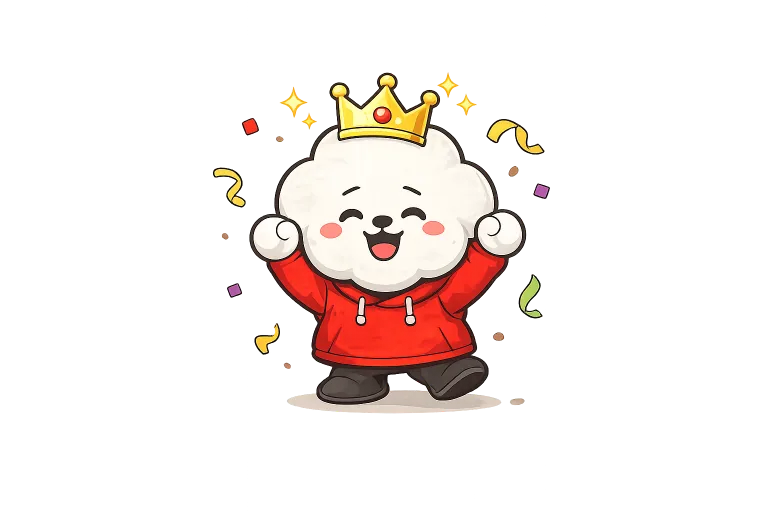
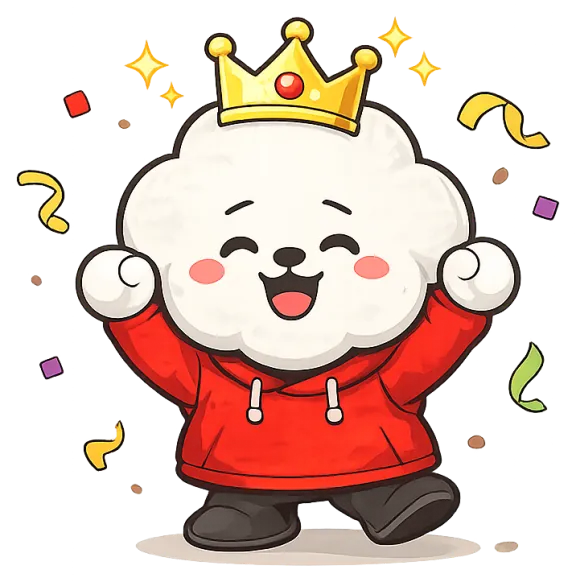
Trim the mascot art, rebuild the miss screen, unweld the feed bar
THE MASCOTS WERE NEVER THE SIZE I SET THEM TO. The art is generated on a 3:2
canvas with the character floating in the middle, and object-contain fits the
CANVAS, not the character. Measured against the alpha bbox:

  mascot-celebrate   44% of canvas width      mascot-sad    48%
  mascot-thinking    50%                      csi-logo      51%

So mascot-sad at h-56 (224px) rendered ~107px of actual mascot. Every size I
set in the last two commits was roughly half of what landed. Trimmed each to
its content box with a 3% margin and re-encoded at 576px/q80; they now fill
their frames, so the same class renders about twice the mascot. Glyphs were
already fine at 95% median fill and are untouched. Payload 1.0 -> 1.1MB.

Re-tuned what that broke: the challenge title now reserves pr-24 so it cannot
run under a mascot that is suddenly twice as wide.

THE MISS SCREEN. It was a small column of text floating in cream — the
emptiness was the problem, not the wording. Now a red plate carries the
headline as a sticker with an attempt counter, the mascot straddles its bottom
edge at 176px, the miss line sits on a white card, and both actions are real
buttons pinned to the bottom rather than a link floating in space. The added
line — no digit lost, no time penalty — follows the one useful thing the
research said: a fail state should redirect rather than punish, or a first-year
puts the phone down.

THE FEED BAR. A flat full-bleed ink slab butted against the header's curve,
[…]

diff --git a/src/screens/ChallengeScreen.tsx b/src/screens/ChallengeScreen.tsx
@@ -5,6 +5,7 @@ import { ProgressDots } from "../components/ProgressDots";
 import { CountdownPill } from "../components/CountdownPill";
 import { AnswerOptionCard } from "../components/AnswerOptionCard";
 import { PrimaryButton } from "../components/PrimaryButton";
+import { Pressable } from "../components/Pressable";
 import { ScreenHeader } from "../components/ScreenHeader";
 import { Toast } from "../components/Toast";
 import { Modal } from "../components/Modal";
@@ -147,10 +148,13 @@ export function ChallengeScreen() {
           <div className="pointer-events-none absolute -right-4 -top-8 z-10 h-32 w-32 rotate-[5deg]">
             <Art name="mascot-thinking" alt="" className="h-full w-full object-contain" />
           </div>
-          <span className="text-[11px] font-bold uppercase tracking-[0.2em] text-red-deep">
+          {/* pr-24 keeps the title out from under the mascot. The art used to
+              occupy half its frame, so a 128px box only looked ~60px wide and
+              long titles cleared it by accident. */}
+          <span className="block pr-24 text-[11px] font-bold uppercase tracking-[0.2em] text-red-deep">
             CHALLENGE PUZZLE
           </span>
-          <h1 className="text-[28px] font-extrabold uppercase leading-[0.95] tracking-tighter text-ink mt-1">
+          <h1 className="mt-1 pr-24 text-[28px] font-extrabold uppercase leading-[0.95] tracking-tighter text-ink">
             {challenge.title}
           </h1>
           <p className="font-body text-base font-bold text-ink/75 leading-relaxed mt-3 bg-white ink rounded-card p-4 shadow-ink-sm rotate-[-1deg]">
@@ -246,44 +250,78 @@ export function ChallengeScreen() {
             animate={{ opacity: 1 }}
             exit={{ opacity: 0 }}
             transition={{ duration: 0.18 }}
-            className="absolute inset-0 z-50 flex flex-col items-center justify-center gap-5 bg-paper p-8 text-center"
+            className="absolute inset-0 z-50 flex flex-col bg-paper"
           >
+            {/* A coloured plate, not a bare page. The screen was a small column
+                of text floating in cream — the emptiness was the problem, not
+                the wording. The plate also lets the mascot overlap something,
+                which is what stops the layout reading as a stack of blocks. */}
+            <div className="relative shrink-0 overflow-hidden rounded-b-[28px] bg-red px-6 pb-20 pt-9 text-center shadow-[0_4px_0_0_var(--color-ink)]">
+              <div
+                aria-hidden
+                className="pointer-events-none absolute inset-0"
+                style={{
+                  backgroundImage:
+                    "repeating-linear-gradient(115deg, rgba(255,255,255,0.14) 0 7px, transparent 7px 18px)",
+                }}
+              />
+              <motion.h2
+                initial={{ scale: 0.85, y: -8 }}
+                animate={{ scale: 1, y: 0 }}
+                transition={{ type: "spring", stiffness: 420, damping: 16 }}
+                className="relative font-display text-[46px] uppercase leading-none tracking-tight text-white"
+                style={{ textShadow: "0 4px 0 var(--color-ink)" }}
+              >
+                Not quite
+              </motion.h2>
+              <span className="relative mt-3 inline-block rounded-pill border-2 border-white/40 bg-red-deep px-3 py-1 font-body text-[10px] font-bold uppercase tracking-[0.18em] text-white/90">
+                Attempt {misses + 1}
+              </span>
+            </div>
+
+            {/* Mascot straddling the plate edge, large. */}
             <motion.div
               initial={{ scale: 0.7, y: 14 }}
               animate={{ scale: 1, y: 0 }}
               transition={{ type: "spring", stiffness: 360, damping: 18 }}
-              className="h-56 w-56"
+              className="pointer-events-none z-10 -mt-16 flex shrink-0 justify-center"
             >
-              <Art name="mascot-sad" alt="" className="h-full w-full object-contain" />
+              <Art name="mascot-sad" alt="" className="h-44 w-44 object-contain" />
             </motion.div>
 
-            <div>
-              <h2 className="font-display text-[34px] uppercase leading-none tracking-tighter text-red">
-                Not quite
-              </h2>
-              <p className="mt-2 font-body text-[15px] font-bold text-ink/65">
-                {MISS_LINES[Math.min(misses - 1, MISS_LINES.length - 1)] ?? MISS_LINES[0]}
-              </p>
+            <div className="px-6">
+              <div className="ink rotate-[-1deg] rounded-plate bg-white p-5 text-center shadow-ink">
+                <p className="font-body text-[16px] font-bold leading-snug text-ink">
+                  {MISS_LINES[Math.min(misses - 1, MISS_LINES.length - 1)] ?? MISS_LINES[0]}
+                </p>
+                {/* Redirect rather than punish — the miss costs nothing, and
+                    saying so is what keeps a first-year tapping instead of
+                    putting the phone down. */}
+                <p className="mt-2 font-body text-[13px] font-semibold text-ink/55">
+                  No digit lost. No time penalty. Just go again.
+                </p>
+              </div>
             </div>
 
-            <PrimaryButton
-              className="w-full max-w-xs"
-              onClick={() => {
-                setShowMiss(false);
-                setStatus("idle");
-                setWrongId(null);
-              }}
-            >
-              TRY AGAIN
-            </PrimaryButton>
+            <div className="mt-auto flex flex-col gap-3 p-6">
+              <PrimaryButton
+                className="h-16 w-full"
+                onClick={() => {
+                  setShowMiss(false);
+                  setStatus("idle");
+                  setWrongId(null);
+                }}
+              >
+                TRY AGAIN
+              </PrimaryButton>
 
-            <button
-              type="button"
-              onClick={() => { setShowMiss(false); setStatus("idle"); setWrongId(null); setHintOpen(true); }}
-              className="font-body text-[14px] font-bold text-ink/50 underline underline-offset-4"
-            >
-              Show me a nudge
-            </button>
+              <Pressable
+                className="h-14 w-full"
+                onClick={() => { setShowMiss(false); setStatus("idle"); setWrongId(null); setHintOpen(true); }}
+              >
+                SHOW ME A NUDGE
+              </Pressable>
+            </div>
           </motion.div>
         )}
       </AnimatePresence>

diff --git a/src/components/CrewFeed.tsx b/src/components/CrewFeed.tsx
@@ -46,11 +46,14 @@ export function CrewFeed({ className }: { className?: string }) {
     return () => clearTimeout(t);
   }, [event]);
 
+  // A floating pill straddling the header's bottom edge, not a full-bleed slab
+  // welded under it. The slab butted a flat black bar against the header's
+  // curve — two different shapes fighting — and it pushed the whole page down
+  // whenever someone scored. Absolute positioning means zero layout shift.
   return (
     <div
       className={cn(
-        "overflow-hidden border-ink bg-ink transition-[height,border] duration-300",
-        event ? "h-8 border-b-3" : "h-0 border-b-0",
+        "pointer-events-none absolute inset-x-0 top-0 z-30 flex -translate-y-1/2 justify-center px-4",
         className
       )}
     >
@@ -58,13 +61,13 @@ export function CrewFeed({ className }: { className?: string }) {
         {event && (
           <motion.div
             key={event.key}
-            initial={{ y: 14, opacity: 0 }}
-            animate={{ y: 0, opacity: 1 }}
-            exit={{ y: -14, opacity: 0 }}
-            transition={{ duration: 0.2 }}
-            className="flex h-8 items-center gap-2 px-4"
+            initial={{ y: -18, opacity: 0, scale: 0.88 }}
+            animate={{ y: 0, opacity: 1, scale: 1 }}
+            exit={{ y: -12, opacity: 0, scale: 0.94 }}
+            transition={{ type: "spring", stiffness: 420, damping: 24 }}
+            className="flex max-w-full items-center gap-2 rounded-pill border-3 border-white bg-ink px-3.5 py-1.5 shadow-[0_3px_0_0_var(--color-ink)]"
           >
-            <span className="block h-1.5 w-1.5 shrink-0 rounded-pill bg-green" />
+            <span className="block h-1.5 w-1.5 shrink-0 animate-[pulseGlow_1.6s_ease-in-out_infinite] rounded-pill bg-green" />
             <span className="truncate font-body text-[11px] font-semibold text-white/85">
               <span className="text-brass">{event.name}</span> is on{" "}
               <span className="font-readout text-brass">{event.digits}</span>

diff --git a/src/screens/Home.tsx b/src/screens/Home.tsx
@@ -59,8 +59,11 @@ export function Home() {
         }
       />
 
-      {/* Collapses to zero height when nobody has done anything. */}
-      <CrewFeed className="relative z-20 shrink-0" />
+      {/* Zero-height anchor: the feed pill floats on the header's bottom edge
+          and never moves the page when someone scores. */}
+      <div className="relative z-30 h-0">
+        <CrewFeed />
+      </div>
 
       {/* ── Body ───────────────────────────────────────────────── */}
       <div className="flex flex-1 flex-col px-5 pb-3 pt-2">
